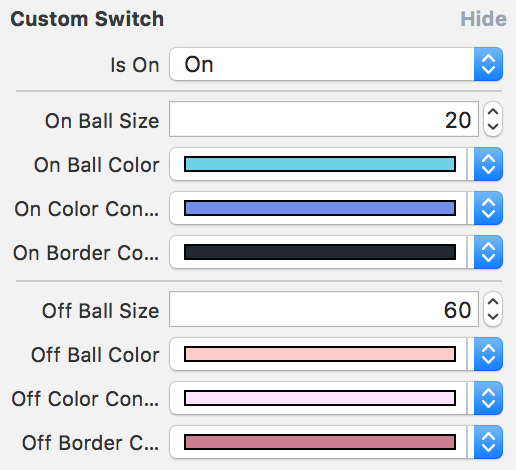
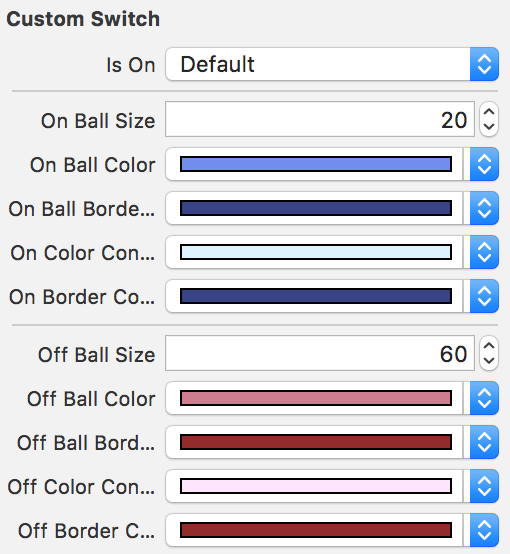
Update readme.md

diff --git a/README.md b/README.md
@@ -69,6 +69,10 @@ myCustomUISwitch.onBallSize = 'CGFloat'
 ```swift
 myCustomUISwitch.onBallColor = 'UIColor'
 ```
+- On Ball Border Color:
+```swift
+myCustomUISwitch.onBallBorderColor = 'UIColor'
+```
 - On Container Color:
 ```swift
 myCustomUISwitch.onColorContainer = 'UIColor'
@@ -84,6 +88,10 @@ myCustomUISwitch.offBallSize = 'CGFloat'
 - Off Ball Color:
 ```swift
 myCustomUISwitch.offBallColor = 'UIColor'
+```
+- Off Ball Border Color:
+```swift
+myCustomUISwitch.offBallBorderColor = 'UIColor'
 ```
 - Off Container Color:
 ```swift
